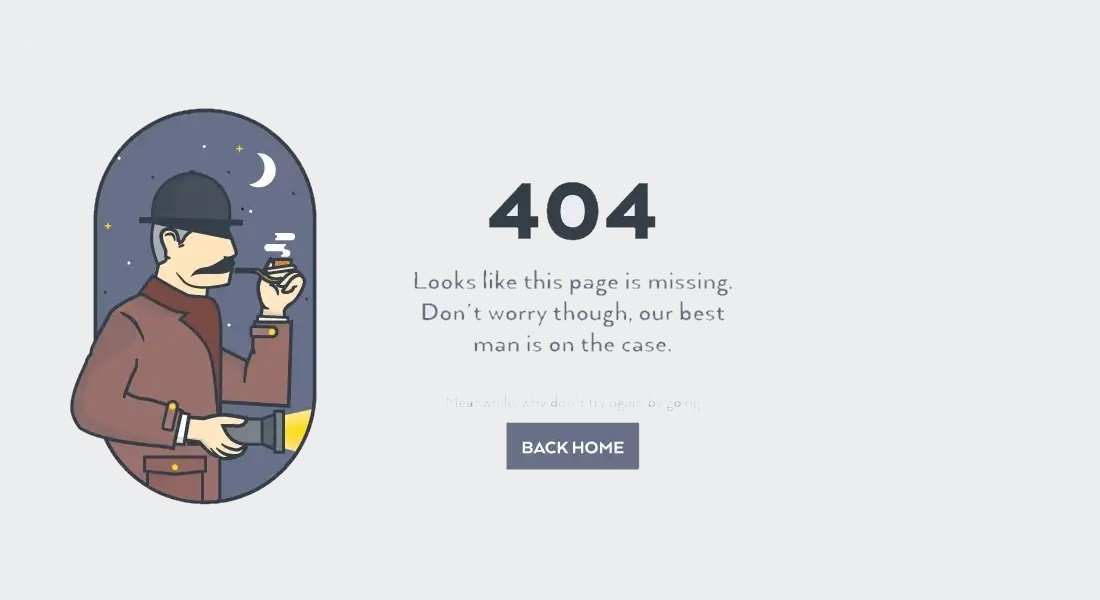
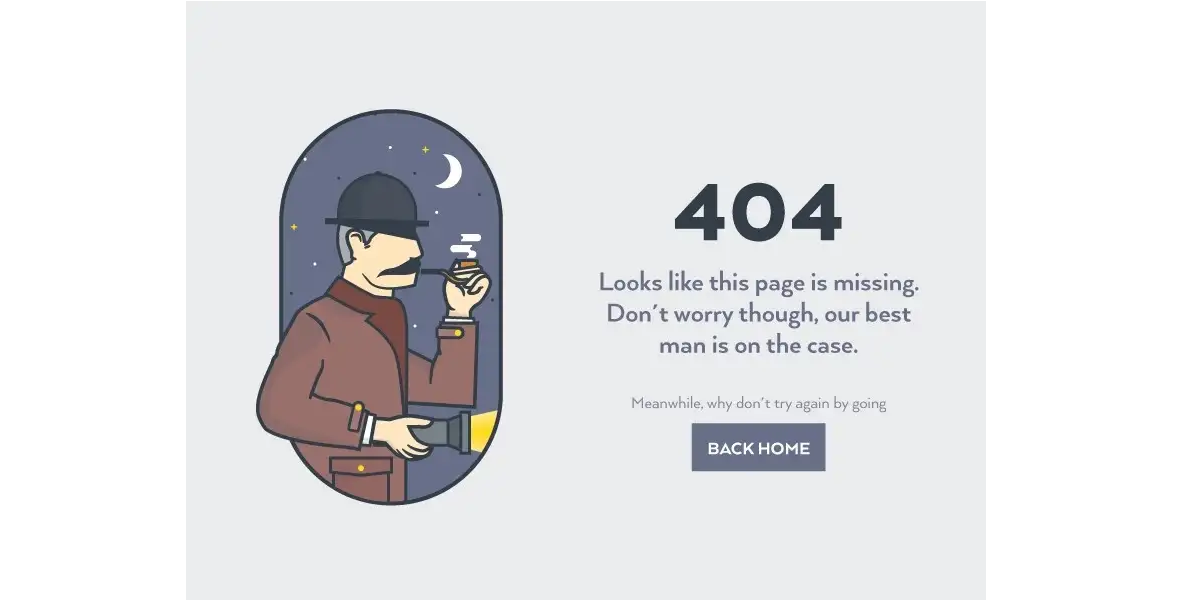
side-by-side

Changed region(s): [[0.0618, 0.18, 0.7727, 0.84]]

diff --git a/index.html b/index.html
@@ -8,13 +8,13 @@
     <title>Sherlokas</title>
 </head>
 
-<body>
-    <main>
-        <img src="#" alt="Sherlokas">
-        <div>
-            <header></header>
-            <p>textas2</p>
-            <p>textas2</p>
+<body style="background-color: #EBEDEE;">
+    <main style="background-color: pink; width: 50%; margin-left: 25%; margin-top: 100px; display: inline-block;">
+        <img src="./NoBG.png" alt="Sherlokas" style="display: inline-block; width: 50%; float: left;">
+        <div style="background-color: yellow; width: 50%; display: inline-block; float: left;">
+            <h1 style="background-color: blue;">404</h1>
+            <p style="background-color: violet;">Lorem ipsum, dolor sit amet consectetur adipisicing elit. Officiis nam animi veniam fugit dolores iusto ipsa velit autem cum enim.</p>
+            <p>Lorem ipsum dolor sit amet consectetur adipisicing.</p>
             <a href="#"></a>
         </div>
     </main>
@@ -22,3 +22,36 @@
 </body>
 
 </html>
+
+<!--
+KOMENTARAI:
+
+Style="cia rasome visas stiliaus savybes..."
+
+Stiliaus savybes sablonas:
+    savybe: reiksme;
+    stiliaus-savybe: reiksme;
+    Stiliaus: reiksme1 reiksme2 reiksme3;
+    stiliaus-savybe: reiksme1 reiksme2 reiksme3;
+
+    background-color: grey;
+    background-color: rgb(123,123,123)
+    background-color: hsl(199, 1%, 93%)
+    background-color: #ebedee;
+
+    Elementu tarpusavio atsistumimas:
+    margin: 100px;  tarp elementu visomis kryptimis bus 100px tarpas
+    margin-top:     100px
+    margin-right:   100px
+    margin-bottom:  100px
+    margin-left:    100px
+
+    Elemento atvaizdavimo budas:
+    display: block;         daugumos elementu pradine parinktis
+    display: none;          nerodyti elementu
+    display: inline;        tarsi zodis sakinyje/paragrafe
+    display: inline-block;  stengsis buti siauras, bet nevirsys tevinio elemento ploto
+
+    float:
+    float:
+-->
